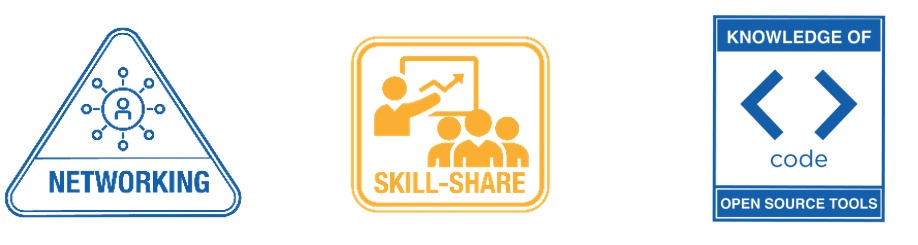
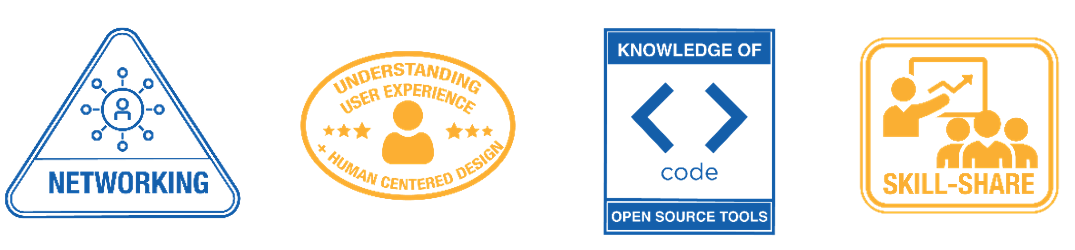
Updates Certification and Stamps

diff --git a/content/blog/2020-07-31-AXISCertification.md b/content/blog/2020-07-31-AXISCertification.md
@@ -19,24 +19,24 @@ Following the convenings, participants will be able to integrate feedback collec
 
 **Individuals who receive this certification have the following qualifications:**
 
-- Knowledge of open source privacy and security tools being developed and maintained, as well as an awareness of which at-risk communities are relying on these tools
+- **Knowledge of Open Source Tools:** Knowledge of open source privacy and security tools being developed and maintained, as well as an awareness of which at-risk communities are relying on these tools
 
-- Ability to connect and build trust with at-risk communities/users
+- **Building Trust With At-risk Communities:** Ability to connect and build trust with at-risk communities/users
 
-- Understanding of human-centered design and user-experience
+- **Understanding User Experience & Human Centered Design:** Understanding of human-centered design and user-experience
 
-- Ability to collect tool-specific feedback during digital security trainings and/or organizational security audits (utilizing editable templates and activities for feedback collection)
+- **Tool-Specific Feedback Collection:** Ability to collect tool-specific feedback during digital security trainings and/or organizational security audits (utilizing editable templates and activities for feedback collection)
 
-- Ability to understand and capture user needs and challenges at the individual, organization, and/or community levels (and present in the form of personas, archetypes, user stories, etc.)
+- **Understanding the User:** Ability to understand and capture user needs and challenges at the individual, organization, and/or community levels (and present in the form of personas, archetypes, user stories, etc.)
 
-- Knowledge of common adversary tactics and strategies
+- **Understanding Adversaries:** Knowledge of common adversary tactics and strategies
 
-- Ability to synthesize, prioritize, and format tool-specific user feedback
+- **Synthesizing, Prioritizing, and Formatting Feedback:** Ability to synthesize, prioritize, and format tool-specific user feedback
 
-- Ability to communicate feedback effectively to developers and/or tool teams
+- **Communicating User Feedback to Developers:** Ability to communicate feedback effectively to developers and/or tool teams
 
-- Understanding of how to facilitate feedback collection activities virtually  
+- **Virtual Engagements with Users:** Understanding of how to facilitate feedback collection activities virtually  
 
-- Access to a global network of digital security trainers, auditors, UX designers and accessibility experts, and developers
+- **Networking:** Access to a global network of digital security trainers, auditors, UX designers and accessibility experts, and developers
 
 <div style="text-align: center"><img src="/images/AXIS/Stamps_All.PNG" alt="AXIS Stamps" style="border: 0; padding: 1em;" /></div>
